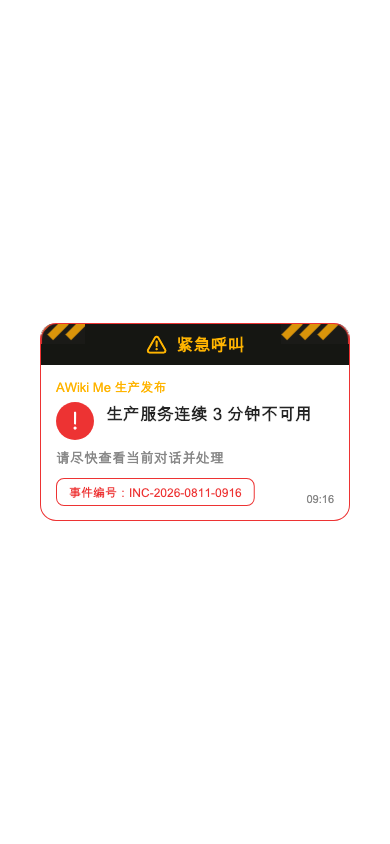
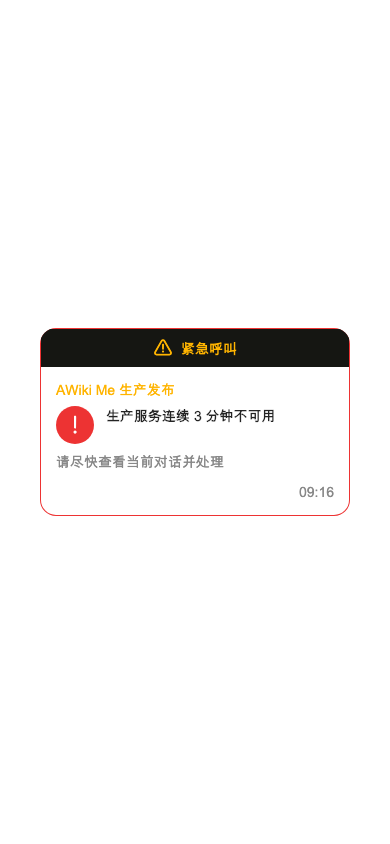
fix: align agent notification UI with approved design

Changed region(s): [[0.0923, 0.3697, 0.8923, 0.6161], [0.7692, 0.5545, 0.8923, 0.6161]]

diff --git a/lib/src/presentation/chat/parts/agent_message_card.dart b/lib/src/presentation/chat/parts/agent_message_card.dart
@@ -75,54 +75,28 @@ class AgentMessageCard extends StatelessWidget {
             Container(
               color: const Color(0xFF151612),
               padding: const EdgeInsets.symmetric(horizontal: 16, vertical: 9),
-              child: Stack(
-                alignment: Alignment.center,
-                clipBehavior: Clip.none,
+              child: Row(
+                mainAxisAlignment: MainAxisAlignment.center,
                 children: <Widget>[
-                  Positioned(
-                    left: -16,
-                    top: -9,
-                    child: Image.asset(
-                      'assets/icons/agent_urgent_hazard_left.png',
-                      width: 44,
-                      height: 20,
-                      filterQuality: FilterQuality.high,
+                  const ExcludeSemantics(
+                    child: Icon(
+                      CupertinoIcons.exclamationmark_triangle,
+                      color: Color(0xFFFFB400),
+                      size: 20,
                     ),
                   ),
-                  Positioned(
-                    right: -16,
-                    top: -9,
-                    child: Image.asset(
-                      'assets/icons/agent_urgent_hazard_right.png',
-                      width: 68,
-                      height: 20,
-                      filterQuality: FilterQuality.high,
+                  const SizedBox(width: 8),
+                  Flexible(
+                    child: Text(
+                      label,
+                      maxLines: 2,
+                      overflow: TextOverflow.ellipsis,
+                      style: const TextStyle(
+                        color: Color(0xFFFFB400),
+                        fontSize: 14,
+                        fontWeight: FontWeight.w600,
+                      ),
                     ),
-                  ),
-                  Row(
-                    mainAxisAlignment: MainAxisAlignment.center,
-                    children: <Widget>[
-                      const ExcludeSemantics(
-                        child: Icon(
-                          CupertinoIcons.exclamationmark_triangle,
-                          color: Color(0xFFFFB400),
-                          size: 22,
-                        ),
-                      ),
-                      const SizedBox(width: 9),
-                      Flexible(
-                        child: Text(
-                          label,
-                          maxLines: 2,
-                          overflow: TextOverflow.ellipsis,
-                          style: const TextStyle(
-                            color: Color(0xFFFFB400),
-                            fontSize: 17,
-                            fontWeight: FontWeight.w700,
-                          ),
-                        ),
-                      ),
-                    ],
                   ),
                 ],
               ),
@@ -175,7 +149,7 @@ class AgentMessageCard extends StatelessWidget {
                   overflow: TextOverflow.ellipsis,
                   style: TextStyle(
                     color: urgentCall ? const Color(0xFFFFB400) : accent,
-                    fontSize: 13,
+                    fontSize: 14,
                     fontWeight: FontWeight.w500,
                   ),
                 ),
@@ -207,8 +181,8 @@ class AgentMessageCard extends StatelessWidget {
                         message.summary,
                         style: TextStyle(
                           color: titleColor,
-                          fontSize: 17,
-                          fontWeight: FontWeight.w700,
+                          fontSize: 14,
+                          fontWeight: FontWeight.w600,
                           height: 1.3,
                         ),
                       ),
@@ -222,50 +196,16 @@ class AgentMessageCard extends StatelessWidget {
                     style: TextStyle(color: secondaryColor, height: 1.35),
                   ),
                 ],
-                const SizedBox(height: 11),
-                Row(
-                  crossAxisAlignment: CrossAxisAlignment.end,
-                  children: <Widget>[
-                    Expanded(
-                      child: Align(
-                        alignment: Alignment.centerLeft,
-                        child: Container(
-                          constraints: const BoxConstraints(minHeight: 28),
-                          padding: const EdgeInsets.symmetric(
-                            horizontal: 12,
-                            vertical: 5,
-                          ),
-                          decoration: BoxDecoration(
-                            border: Border.all(
-                              color: urgentCall
-                                  ? const Color(0xFFED3333)
-                                  : accent,
-                            ),
-                            borderRadius: BorderRadius.circular(8),
-                          ),
-                          child: Text(
-                            copy.eventNumber,
-                            maxLines: 2,
-                            overflow: TextOverflow.ellipsis,
-                            style: TextStyle(
-                              color: urgentCall
-                                  ? const Color(0xFFED3333)
-                                  : accent,
-                              fontSize: 12,
-                            ),
-                          ),
-                        ),
-                      ),
+                if (timeLabel case final value?) ...<Widget>[
+                  const SizedBox(height: 11),
+                  Align(
+                    alignment: Alignment.centerRight,
+                    child: Text(
+                      value,
+                      style: TextStyle(color: secondaryColor, fontSize: 14),
                     ),
-                    if (timeLabel case final value?) ...<Widget>[
-                      const SizedBox(width: 8),
-                      Text(
-                        value,
-                        style: TextStyle(color: secondaryColor, fontSize: 11),
-                      ),
-                    ],
-                  ],
-                ),
+                  ),
+                ],
               ],
             ),
           ),
@@ -345,7 +285,7 @@ class AgentUrgentCalloutOverlay extends StatelessWidget {
                                 copy.back,
                                 style: const TextStyle(
                                   color: Color(0xFFF1E8D7),
-                                  fontSize: 16,
+                                  fontSize: 14,
                                 ),
                               ),
                             ],
@@ -369,8 +309,8 @@ class AgentUrgentCalloutOverlay extends StatelessWidget {
                               copy.urgentCall,
                               style: const TextStyle(
                                 color: Color(0xFFFFB400),
-                                fontSize: 24,
-                                fontWeight: FontWeight.w700,
+                                fontSize: 14,
+                                fontWeight: FontWeight.w600,
                               ),
                             ),
                           ),
@@ -391,7 +331,7 @@ class AgentUrgentCalloutOverlay extends StatelessWidget {
                         textAlign: TextAlign.center,
                         style: const TextStyle(
                           color: Color(0xFFFFB400),
-                          fontSize: 17,
+                          fontSize: 14,
                           fontWeight: FontWeight.w500,
                           height: 1.3,
                         ),
@@ -402,8 +342,8 @@ class AgentUrgentCalloutOverlay extends StatelessWidget {
                         textAlign: TextAlign.center,
                         style: const TextStyle(
                           color: Color(0xFFF8F7F2),
-                          fontSize: 21,
-                          fontWeight: FontWeight.w700,
+                          fontSize: 14,
+                          fontWeight: FontWeight.w600,
                           height: 1.35,
                         ),
                       ),
@@ -414,7 +354,7 @@ class AgentUrgentCalloutOverlay extends StatelessWidget {
                           textAlign: TextAlign.center,
                           style: const TextStyle(
                             color: Color(0xFFE5DED2),
-                            fontSize: 16,
+                            fontSize: 14,
                             height: 1.4,
                           ),
                         ),
@@ -425,7 +365,7 @@ class AgentUrgentCalloutOverlay extends StatelessWidget {
                         textAlign: TextAlign.center,
                         style: const TextStyle(
                           color: Color(0xFFB8AD9A),
-                          fontSize: 13,
+                          fontSize: 14,
                           height: 1.35,
                         ),
                       ),
@@ -435,7 +375,7 @@ class AgentUrgentCalloutOverlay extends StatelessWidget {
                         textAlign: TextAlign.center,
                         style: const TextStyle(
                           color: Color(0xFFB8AD9A),
-                          fontSize: 13,
+                          fontSize: 14,
                         ),
                       ),
                       SizedBox(height: 25 * scale),
@@ -466,7 +406,7 @@ class AgentUrgentCalloutOverlay extends StatelessWidget {
                                 textAlign: TextAlign.center,
                                 style: const TextStyle(
                                   color: Color(0xFFD8CBB7),
-                                  fontSize: 13,
+                                  fontSize: 14,
                                 ),
                               ),
                             ),
@@ -488,7 +428,7 @@ class AgentUrgentCalloutOverlay extends StatelessWidget {
                           _UrgentRoundAction(
                             buttonKey: const Key('agent-urgent-act'),
                             color: const Color(0xFF098DDA),
-                            icon: CupertinoIcons.arrow_right,
+                            icon: CupertinoIcons.check_mark,
                             label: copy.act,
                             onPressed: onAct,
                           ),
@@ -588,7 +528,7 @@ class _AgentIdentityRings extends StatelessWidget {
                   overflow: TextOverflow.ellipsis,
                   style: const TextStyle(
                     color: Color(0xFFFFFFFF),
-                    fontSize: 25,
+                    fontSize: 14,
                     fontWeight: FontWeight.w500,
                   ),
                 ),
@@ -649,7 +589,7 @@ class _UrgentRoundAction extends StatelessWidget {
         const SizedBox(height: 11),
         Text(
           label,
-          style: const TextStyle(color: Color(0xFFF1E8D7), fontSize: 16),
+          style: const TextStyle(color: Color(0xFFF1E8D7), fontSize: 14),
         ),
       ],
     );
@@ -663,7 +603,6 @@ final class AgentMessageCardCopy {
     required this.alert,
     required this.urgent,
     required this.urgentCall,
-    required this.eventNumber,
   });
 
   final String message;
@@ -671,7 +610,6 @@ final class AgentMessageCardCopy {
   final String alert;
   final String urgent;
   final String urgentCall;
-  final String eventNumber;
 }
 
 final class AgentUrgentCalloutCopy {

diff --git a/tests/unit/agent_message_card_test.dart b/tests/unit/agent_message_card_test.dart
@@ -1,6 +1,6 @@
 import 'package:awiki_me/src/domain/entities/agent/agent_message_v1.dart';
 import 'package:awiki_me/src/presentation/chat/parts/agent_message_card.dart';
-import 'package:flutter/widgets.dart';
+import 'package:flutter/cupertino.dart';
 import 'package:flutter_test/flutter_test.dart';
 
 void main() {
@@ -19,7 +19,6 @@ void main() {
     alert: '告警',
     urgent: '紧急',
     urgentCall: '紧急呼叫',
-    eventNumber: '事件编号：evt_task_20260811_001',
   );
   const overlayCopy = AgentUrgentCalloutCopy(
     urgentCall: '紧急呼叫',
@@ -52,7 +51,7 @@ void main() {
                 ),
                 AgentUrgentCalloutOverlay(
                   message: message,
-                  senderLabel: 'Agent',
+                  senderLabel: 'Skill Agent',
                   copy: overlayCopy,
                   metaLabel: '刚刚 · 8月11日 09:16',
                   onIgnore: () => ignored = true,
@@ -67,7 +66,15 @@ void main() {
       expect(find.byKey(const Key('agent-message-task-name')), findsOneWidget);
       expect(find.byKey(const Key('agent-urgent-task-name')), findsOneWidget);
       expect(find.text('生产发布检查'), findsNWidgets(2));
-      expect(find.text('Agent'), findsOneWidget);
+      expect(find.text('Skill Agent'), findsOneWidget);
+      expect(find.textContaining('事件编号'), findsNothing);
+      expect(
+        find.descendant(
+          of: find.byKey(const Key('agent-urgent-act')),
+          matching: find.byIcon(CupertinoIcons.check_mark),
+        ),
+        findsOneWidget,
+      );
       expect(find.text('不会建立语音通话'), findsOneWidget);
       expect(
         tester

diff --git a/tests/unit/data/push/android_remote_push_configuration_test.dart b/tests/unit/data/push/android_remote_push_configuration_test.dart
@@ -65,15 +65,44 @@ void main() {
       final scopeStore = File(
         'lib/src/data/storage/platform_scope_secret_repository.dart',
       ).readAsStringSync();
+      final appStateStore = File(
+        'lib/src/data/services/app_key_value_store.dart',
+      ).readAsStringSync();
 
       expect(manifest, contains('android:allowBackup="false"'));
       expect(
         pubspec,
         contains(
-          RegExp(r'^  flutter_secure_storage: 9\.2\.4$', multiLine: true),
+          RegExp(r'^  flutter_secure_storage: \^10\.3\.1$', multiLine: true),
         ),
       );
-      expect(scopeStore, isNot(contains('migrateWithBackup')));
+      expect(
+        appStateStore,
+        contains("storageNamespace: 'awiki_me_app_state_v1'"),
+      );
+      expect(
+        scopeStore,
+        contains("storageNamespace: 'awiki_me_scope_secrets_v1'"),
+      );
+      expect(appStateStore, contains('resetOnError: false'));
+      expect(scopeStore, contains('resetOnError: false'));
+      expect(
+        scopeStore,
+        contains(
+          'resetOnError: false,\n'
+          '    migrateWithBackup: true,\n'
+          "    storageNamespace: 'awiki_me_scope_secrets_v1'",
+        ),
+      );
+      expect(
+        scopeStore,
+        contains(
+          'migrateOnAlgorithmChange: false,\n'
+          '    migrateWithBackup: false,\n'
+          '    // ignore: deprecated_member_use\n'
+          "    sharedPreferencesName: 'awiki_me_scope_secrets'",
+        ),
+      );
     });
 
     test(

diff --git a/tests/e2e/flutter/app/agent_notification_visual_verification_test.dart b/tests/e2e/flutter/app/agent_notification_visual_verification_test.dart
@@ -58,7 +58,7 @@ void main() {
             children: <Widget>[
               AgentUrgentCalloutOverlay(
                 message: _urgentMessage,
-                senderLabel: 'Hermes UI',
+                senderLabel: 'Skill Agent',
                 copy: AgentUrgentCalloutCopy(
                   urgentCall: '紧急呼叫',
                   back: '返回',
@@ -109,7 +109,6 @@ void main() {
                   alert: '告警',
                   urgent: '紧急',
                   urgentCall: '紧急呼叫',
-                  eventNumber: '事件编号：INC-2026-0811-0916',
                 ),
                 onOpenConversation: null,
               ),
@@ -125,6 +124,7 @@ void main() {
       );
       expect(find.byKey(const Key('agent-message-task-name')), findsOne);
       expect(find.text('AWiki Me 生产发布'), findsOne);
+      expect(find.textContaining('事件编号'), findsNothing);
       expect(tester.takeException(), isNull);
       await _capture(tester, '03-urgent-timeline-card');
     } finally {

diff --git a/tests/unit/settings_page_test.dart b/tests/unit/settings_page_test.dart
@@ -240,7 +240,7 @@ void main() {
     expect(avatarRect, const Rect.fromLTWH(20, 87, 58, 58));
     expect(accountRect, const Rect.fromLTWH(0, 208, 390, 61));
     expect(appRect, const Rect.fromLTWH(0, 309, 390, 244));
-    expect(securityRect, const Rect.fromLTWH(0, 593, 390, 183));
+    expect(securityRect, const Rect.fromLTWH(0, 593, 390, 244));
 
     for (final titleKey in <String>[
       'settings-account-section-title',
